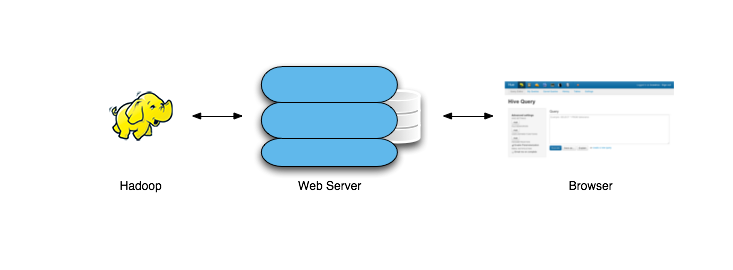
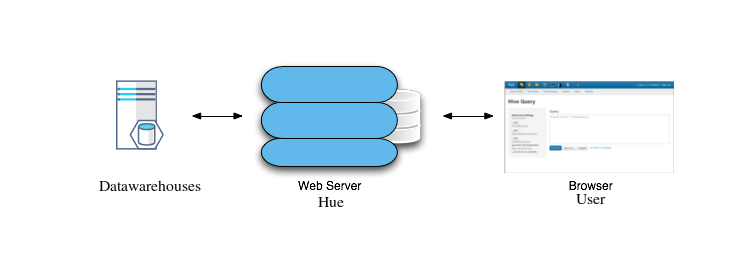
HUE-8888 [docs] Refresh the high level architecture diagram

diff --git a/docs/docs-site/content/administrator/administration/reference.md b/docs/docs-site/content/administrator/administration/reference.md
@@ -20,9 +20,9 @@ In practice ~50 users / Hue peak time is the rule of thumb. This is accounting f
 
 ## General Performance
 
-* Hue must be behing a load balancer proxying static files. In Cloudera Manager Hue ships with HTTPD.
+* Hue must be behing a load balancer proxying static files. e.g. NGINX is used for the containers, Cloudera Hue ships with HTTPD.
 * Adding more Hue instances behind the load balancer will increase performances by 50 concurrent users.
-* Database backend should be such as MySql/Postgres/Oracle. Hue does not work on SQLite as it makes concurrent calls to the database.
+* Database backend should be such as MySql/Postgres/Oracle. Hue does not work on SQLite as it makes concurrent write calls to the database.
 * Check the number of documents in the Hue database. If they are too many (more than 100 000), delete the old records:
   Stop the Hue service. Log on to the host of your Hue server. Go to Hue directory and run following clean up [command](/administrator/administration/operations/#commands):
 

diff --git a/docs/docs-site/content/developer/development/_index.md b/docs/docs-site/content/developer/development/_index.md
@@ -101,6 +101,8 @@ saved queries in the database.)
 In addition to the web server, some Hue applications run
 daemon processes "on the side". Some examples are the `Celery Task Server`, `Celery Beat`.
 
+![Reference Architecture](/images/hue_architecture.png)
+
 ### Interacting with external services
 
 ![Interacting with Hadoop](/images/interactingwithhadoop.png)
